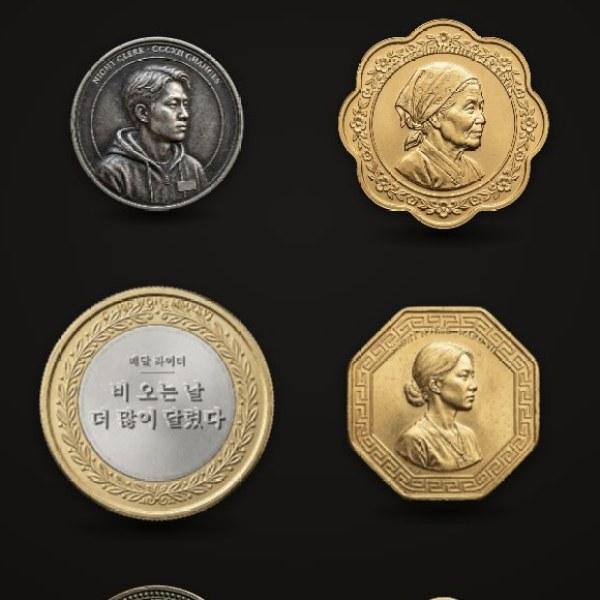
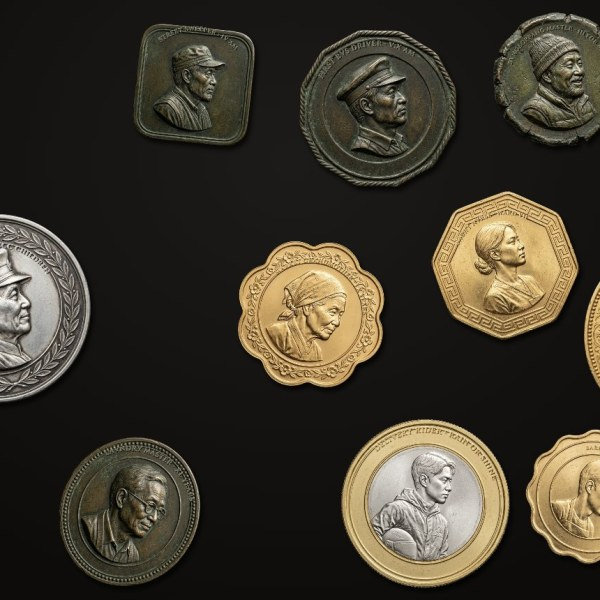
day-261126 탑뷰 그림자를 동전 모양대로, 진열을 흩어진 자연스러운 배치로

diff --git a/day-261126/main.js b/day-261126/main.js
@@ -75,7 +75,7 @@ function tick() {
   const s = actx.createBufferSource(); s.buffer = buf; const f = actx.createBiquadFilter(); f.type = 'highpass'; f.frequency.value = 2500;
   const g = actx.createGain(); g.gain.value = .5; s.connect(f).connect(g).connect(actx.destination); s.start(t);
 }
-function flick(coin, toss, inner, shadow, metal, power) {
+function flick(coin, toss, inner, shadow, metal, power, ang) {
   if (!actx) try { actx = new (window.AudioContext || window.webkitAudioContext)(); } catch {}
   coin.dataset.air = '1'; tick();
   const halfTurns = 2 * (2 + Math.round(power * 3) + Math.floor(Math.random() * 2)) + 1;
@@ -84,7 +84,8 @@ function flick(coin, toss, inner, shadow, metal, power) {
   const k = [0, .1, .3, .5, .7, .9, 1];
   const ease = t => t < .5 ? 1 - (1 - 2 * t) ** 2 : 1 - (2 * t - 1) ** 2;
   const an = toss.animate(k.map(t => ({ offset: t, transform: `translateY(${-up * ease(t)}px) scale(${1 + .22 * ease(t)}) rotateZ(${tilt * t}deg) rotateX(${spin * t}deg)` })), { duration: dur, easing: 'linear' });
-  shadow.animate(k.map(t => ({ offset: t, transform: `scale(${1 - .55 * ease(t)})`, opacity: 1 - .7 * ease(t) })), { duration: dur, easing: 'linear' });
+  const so = (e) => `translate(${4 + 46 * e}px, ${6 + 62 * e}px) rotate(${ang}deg) scale(${1 + .08 * e})`;
+  shadow.animate(k.map(t => ({ offset: t, transform: so(ease(t)), opacity: .7 - .5 * ease(t), filter: `blur(${3 + 14 * ease(t)}px)` })), { duration: dur, easing: 'linear' });
   an.onfinish = () => {
     inner.style.transition = 'none'; coin.classList.toggle('flip'); void inner.offsetWidth; inner.style.transition = '';
     toss.animate([{ transform: `rotateZ(${tilt}deg) translateY(0)` }, { transform: `rotateZ(${tilt * .5}deg) translateY(-14px)` }, { transform: 'rotateZ(0deg) translateY(0)' }], { duration: 260, easing: 'ease-out' });
@@ -106,21 +107,23 @@ async function init() {
   await Promise.all([document.fonts.load("700 30px 'Cinzel'"), document.fonts.load("900 50px 'Noto Serif KR'")]);
   const wall = $('#wall');
   const ims = await Promise.all(COINS.map(o => load(`coins/${o.k}.webp`))), backs = await Promise.all(COINS.map(o => load(`coins/${o.k}-back.webp`)));
-  COINS.forEach((o, i) => {
-    const slot = document.createElement('div'); slot.className = 'slot';
-    const coin = document.createElement('div'); coin.className = 'coin'; coin.style.setProperty('--sz', o.sz);
-    const shadow = document.createElement('div'); shadow.className = 'shadow';
+  const els = COINS.map((o, i) => {
+    const coin = document.createElement('div'); coin.className = 'coin';
+    const ang = (Math.random() - .5) * 70;
+    const sh = document.createElement('canvas'); sh.width = sh.height = 160; sh.className = 'shadow';
+    const sc = sh.getContext('2d'); sc.drawImage(ims[i], 0, 0, 160, 160); sc.globalCompositeOperation = 'source-in'; sc.fillStyle = '#000'; sc.fillRect(0, 0, 160, 160);
+    sh.style.transform = `translate(4px, 6px) rotate(${ang}deg)`;
+    const rot = document.createElement('div'); rot.className = 'rot'; rot.style.transform = `rotate(${ang}deg)`;
     const toss = document.createElement('div'); toss.className = 'toss';
     const inner = document.createElement('div'); inner.className = 'inner';
     inner.append(front(ims[i], o), back(backs[i], o));
-    toss.append(inner); coin.append(shadow, toss);
-    slot.append(coin); wall.append(slot);
+    toss.append(inner); rot.append(toss); coin.append(sh, rot); wall.append(coin);
     let down = null;
     coin.addEventListener('pointerdown', e => { down = { y: e.clientY, t: performance.now() }; });
     coin.addEventListener('pointerup', e => {
       if (!down || coin.dataset.air) return;
       const dy = down.y - e.clientY, dt = Math.max(16, performance.now() - down.t); down = null;
-      flick(coin, toss, inner, shadow, o.m, Math.min(1, Math.max(0, dy / dt * .9)));
+      flick(coin, toss, inner, sh, o.m, Math.min(1, Math.max(0, dy / dt * .9)), ang);
     });
     coin.addEventListener('pointermove', e => {
       if (e.pointerType !== 'mouse') return;
@@ -128,6 +131,26 @@ async function init() {
       inner.style.setProperty('--rx', `${-y * 18}deg`); inner.style.setProperty('--ry', `${x * 18}deg`);
     });
     coin.addEventListener('pointerleave', () => { inner.style.setProperty('--rx', '0deg'); inner.style.setProperty('--ry', '0deg'); });
+    return { coin, sz: o.sz };
   });
+  const order = els.map((_, i) => i).sort(() => Math.random() - .5), jit = els.map(() => [Math.random() - .5, Math.random() - .5]);
+  function scatter() {
+    const W = innerWidth, mob = W < 760, H = mob ? Math.max(innerHeight * 1.45, 1100) : innerHeight, top = 56, pad = 16;
+    const area = (W - pad * 2) * (H - top - pad), m2 = els.reduce((a, e) => a + e.sz * e.sz, 0);
+    const d0 = Math.min(270, Math.sqrt(area * (mob ? .46 : .42) / (.785 * m2)));
+    const cols = mob ? 3 : 4, rows = Math.ceil(els.length / cols), cw = (W - pad * 2) / cols, ch = (H - top - pad) / rows;
+    const P = els.map((e, i) => { const c = order[i], gx = c % cols + (Math.floor(c / cols) % 2 ? .35 : -.1), gy = Math.floor(c / cols); return { r: d0 * e.sz / 2, x: pad + (gx + .5 + jit[i][0] * .7) * cw, y: top + (gy + .5 + jit[i][1] * .7) * ch }; });
+    for (let it = 0; it < 400; it++) {
+      for (let a = 0; a < P.length; a++) for (let b = a + 1; b < P.length; b++) {
+        const A = P[a], B = P[b], dx = B.x - A.x, dy = B.y - A.y, d = Math.hypot(dx, dy) || .01, need = (A.r + B.r) * 1.06 + 6;
+        if (d < need) { const push = (need - d) / 2, ux = dx / d, uy = dy / d; A.x -= ux * push; A.y -= uy * push; B.x += ux * push; B.y += uy * push; }
+      }
+      P.forEach(p => { p.x = Math.min(W - pad - p.r, Math.max(pad + p.r, p.x)); p.y = Math.min(H - pad - p.r, Math.max(top + p.r, p.y)); });
+    }
+    wall.style.height = `${H}px`;
+    els.forEach((e, i) => { const p = P[i]; Object.assign(e.coin.style, { left: `${p.x - p.r}px`, top: `${p.y - p.r}px`, width: `${p.r * 2}px`, height: `${p.r * 2}px` }); });
+  }
+  scatter();
+  let rt; addEventListener('resize', () => { clearTimeout(rt); rt = setTimeout(scatter, 150); });
 }
 init();

diff --git a/day-261126/index.html b/day-261126/index.html
@@ -11,21 +11,21 @@
   body { background: radial-gradient(ellipse at 50% 30%, #1d1b19 0%, #0d0c0b 75%) fixed; }
   #top { position: fixed; left: 18px; right: 18px; top: 14px; display: flex; justify-content: space-between; font-size: 12px; letter-spacing: .14em; text-transform: uppercase; z-index: 3; pointer-events: none; }
   #top a { color: inherit; text-decoration: none; pointer-events: auto; }
-  main { padding: 70px 4vw 60px; display: grid; grid-template-columns: repeat(4, minmax(0, 1fr)); gap: 3.2vw 3vw; max-width: 1180px; margin: 0 auto; box-sizing: border-box; }
-  .slot { display: flex; align-items: center; justify-content: center; min-height: 100%; }
-  .coin { position: relative; width: calc(100% * var(--sz, 1)); max-width: calc(230px * var(--sz, 1)); aspect-ratio: 1; perspective: 900px; cursor: pointer; -webkit-tap-highlight-color: transparent; touch-action: pan-y; }
-  .shadow { position: absolute; left: 12%; right: 12%; bottom: -9%; height: 14%; border-radius: 50%; background: radial-gradient(closest-side, rgba(0,0,0,.65), rgba(0,0,0,0)); }
+  html, body { overflow-x: hidden; }
+  main { position: relative; width: 100%; }
+  .coin { position: absolute; perspective: 900px; cursor: pointer; -webkit-tap-highlight-color: transparent; touch-action: pan-y; }
+  .shadow { position: absolute; inset: 0; width: 100%; height: 100%; opacity: .7; filter: blur(3px); pointer-events: none; }
+  .rot { position: absolute; inset: 0; transform-style: preserve-3d; }
   .toss { position: absolute; inset: 0; transform-style: preserve-3d; }
   .inner { position: relative; width: 100%; height: 100%; transform-style: preserve-3d; transition: transform .25s ease-out; transform: rotateX(calc(var(--rx, 0deg) + var(--flip, 0deg))) rotateY(var(--ry, 0deg)); }
-  .inner canvas { position: absolute; inset: 0; width: 100%; height: 100%; backface-visibility: hidden; -webkit-backface-visibility: hidden; filter: drop-shadow(0 4px 6px rgba(0,0,0,.5)); }
+  .inner canvas { position: absolute; inset: 0; width: 100%; height: 100%; backface-visibility: hidden; -webkit-backface-visibility: hidden; }
   .inner canvas.back { transform: rotateX(180deg); }
   .coin.flip .inner { --flip: 180deg; }
-  @media (max-width: 760px) { main { grid-template-columns: repeat(2, minmax(0, 1fr)); padding: 60px 6vw 40px; gap: 8vw 6vw; } }
 </style>
 </head>
 <body>
 <header id="top"><span>잔돈 · COINS OF ORDINARY PEOPLE</span><a href="../index.html">← INDEX</a></header>
 <main id="wall"></main>
-<script type="module" src="main.js?v=5"></script>
+<script type="module" src="main.js?v=7"></script>
 </body>
 </html>
